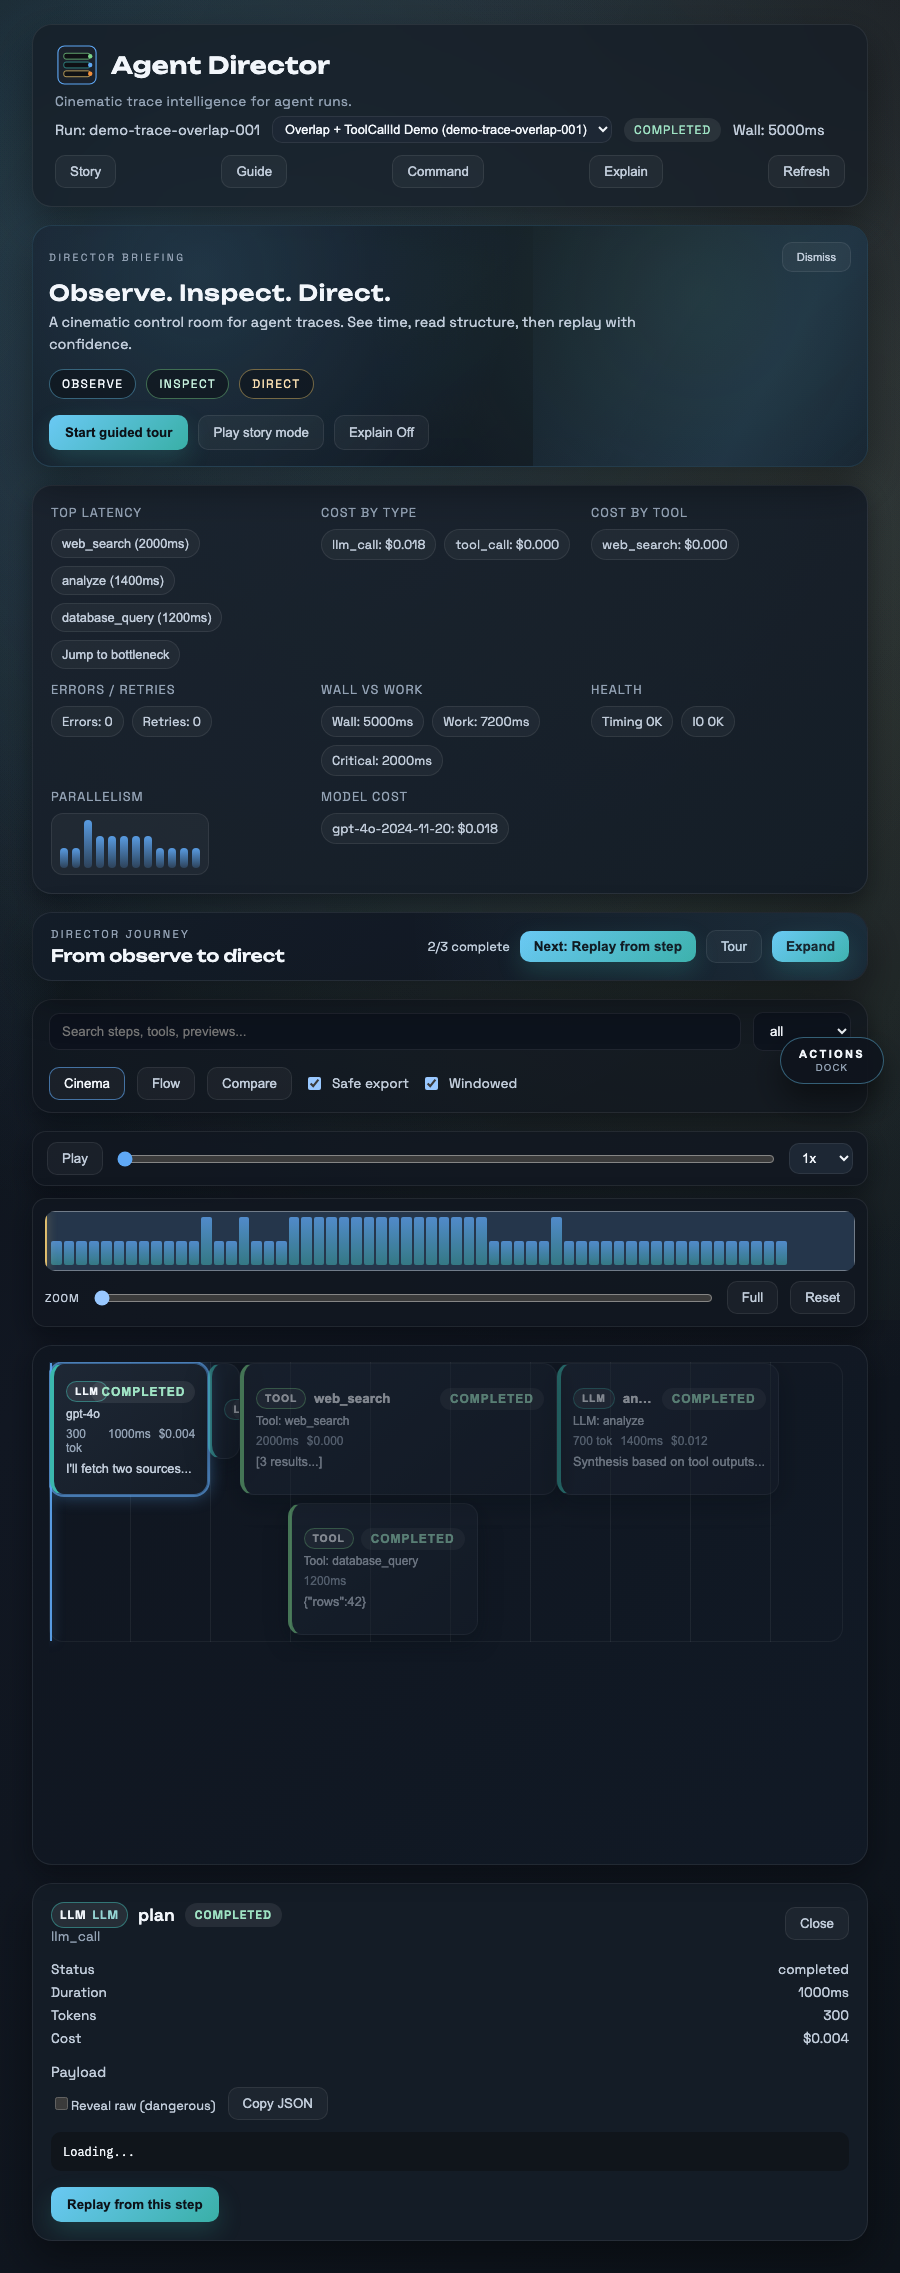
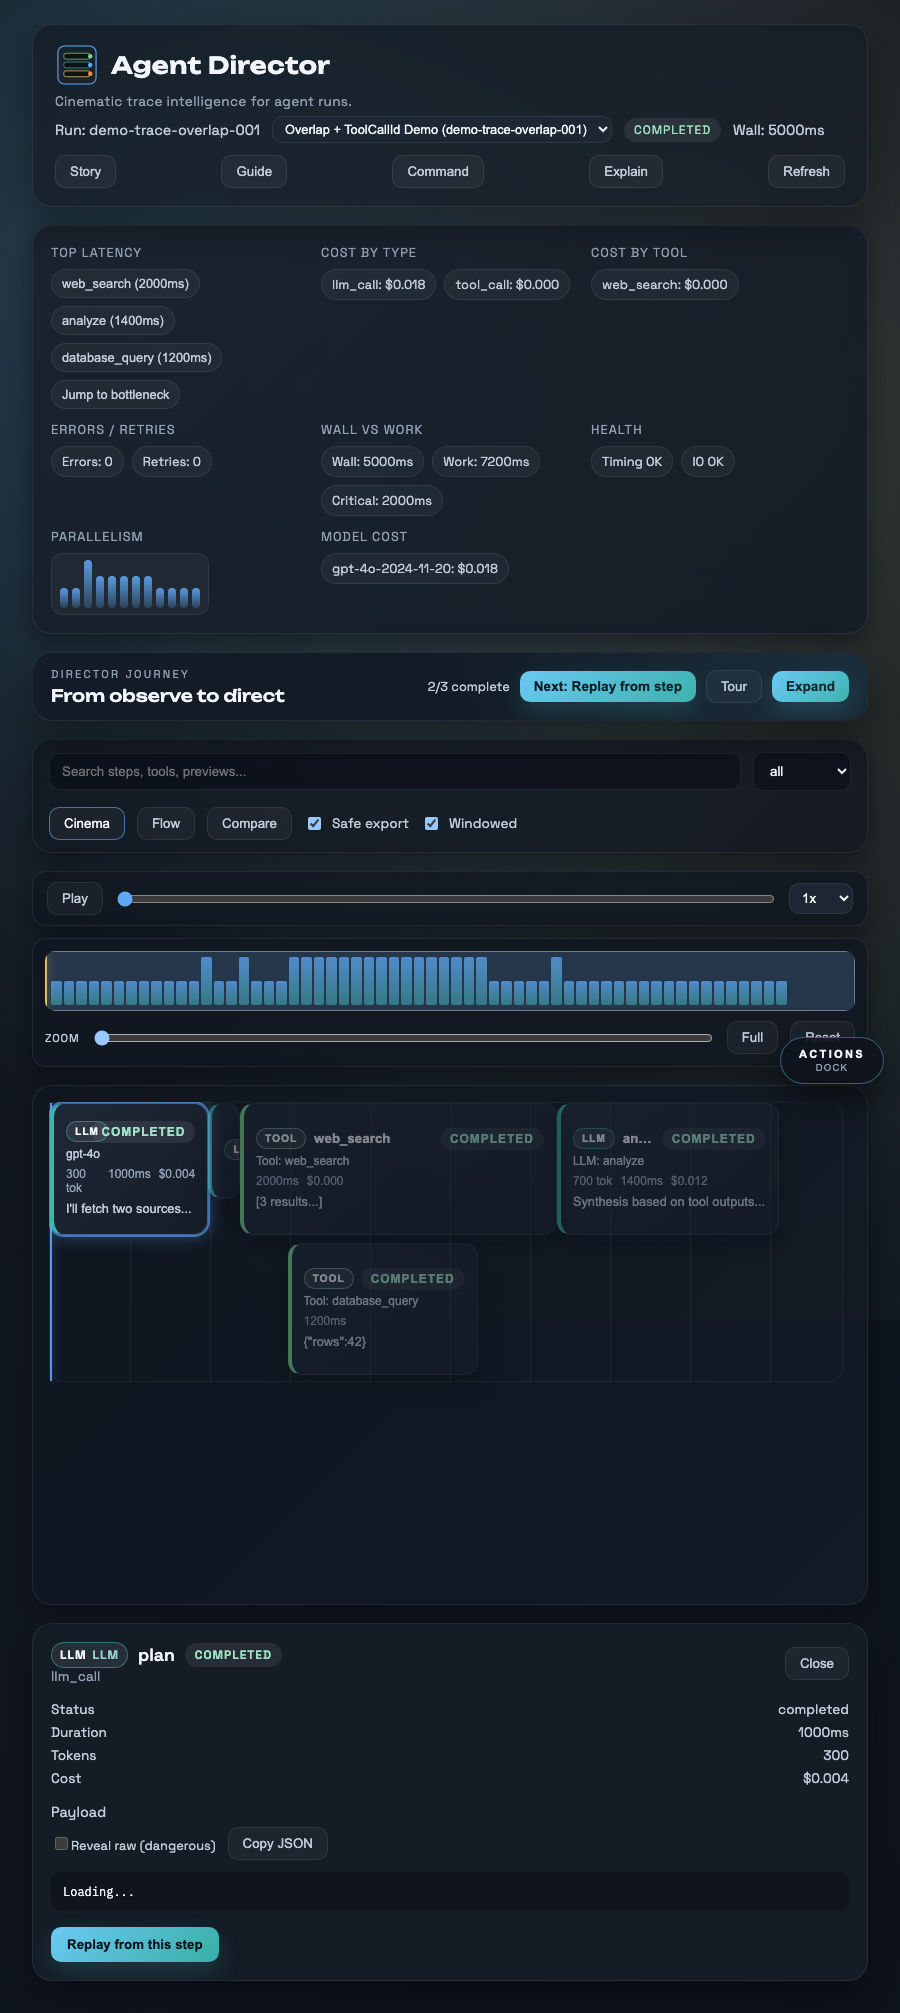
test(ui): stabilize snapshots by dismissing hero

diff --git a/ui/tests/e2e/ux-review.spec.ts b/ui/tests/e2e/ux-review.spec.ts
@@ -15,6 +15,7 @@ async function preparePage(page: import('@playwright/test').Page) {
     window.localStorage.setItem('agentDirector.overlayEnabled', 'true');
     window.localStorage.setItem('agentDirector.speed', '1');
     window.localStorage.setItem('agentDirector.introDismissed', 'true');
+    window.localStorage.setItem('agentDirector.heroDismissed', 'true');
     window.localStorage.setItem('agentDirector.tourCompleted', 'true');
     window.localStorage.setItem('agentDirector.explainMode', 'false');
   });

diff --git a/ui/tests/e2e/visual.spec.ts b/ui/tests/e2e/visual.spec.ts
@@ -9,6 +9,7 @@ async function initStorage(page: import('@playwright/test').Page) {
     window.localStorage.setItem('agentDirector.overlayEnabled', 'true');
     window.localStorage.setItem('agentDirector.speed', '1');
     window.localStorage.setItem('agentDirector.introDismissed', 'true');
+    window.localStorage.setItem('agentDirector.heroDismissed', 'true');
     window.localStorage.setItem('agentDirector.tourCompleted', 'true');
     window.localStorage.setItem('agentDirector.explainMode', 'false');
   });
